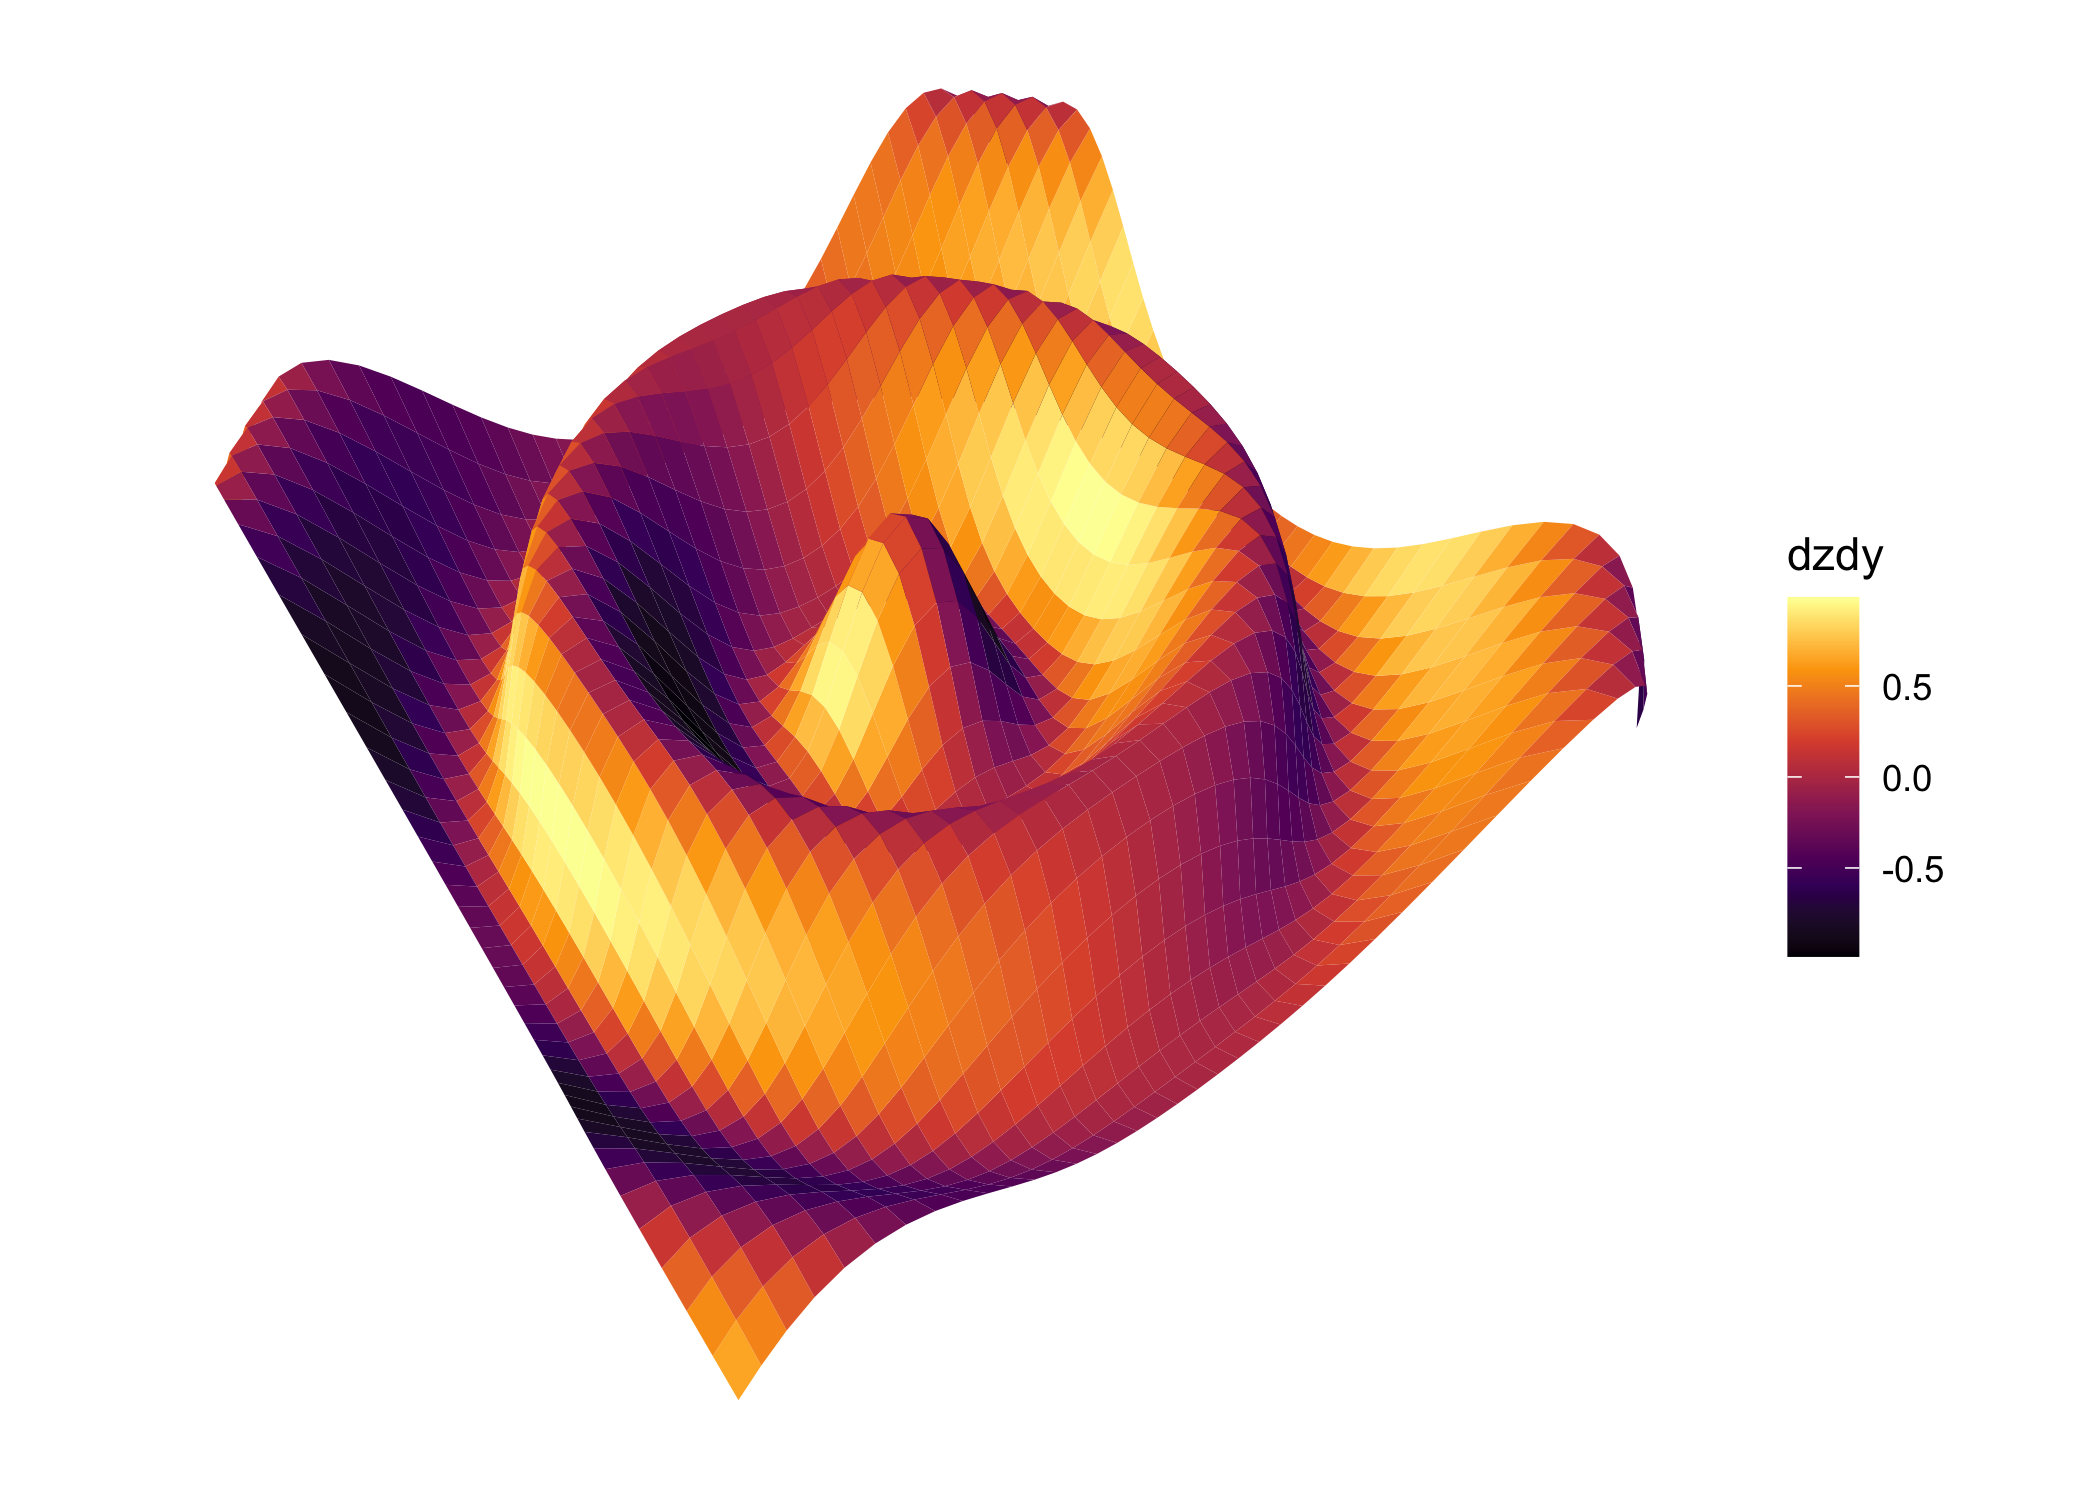
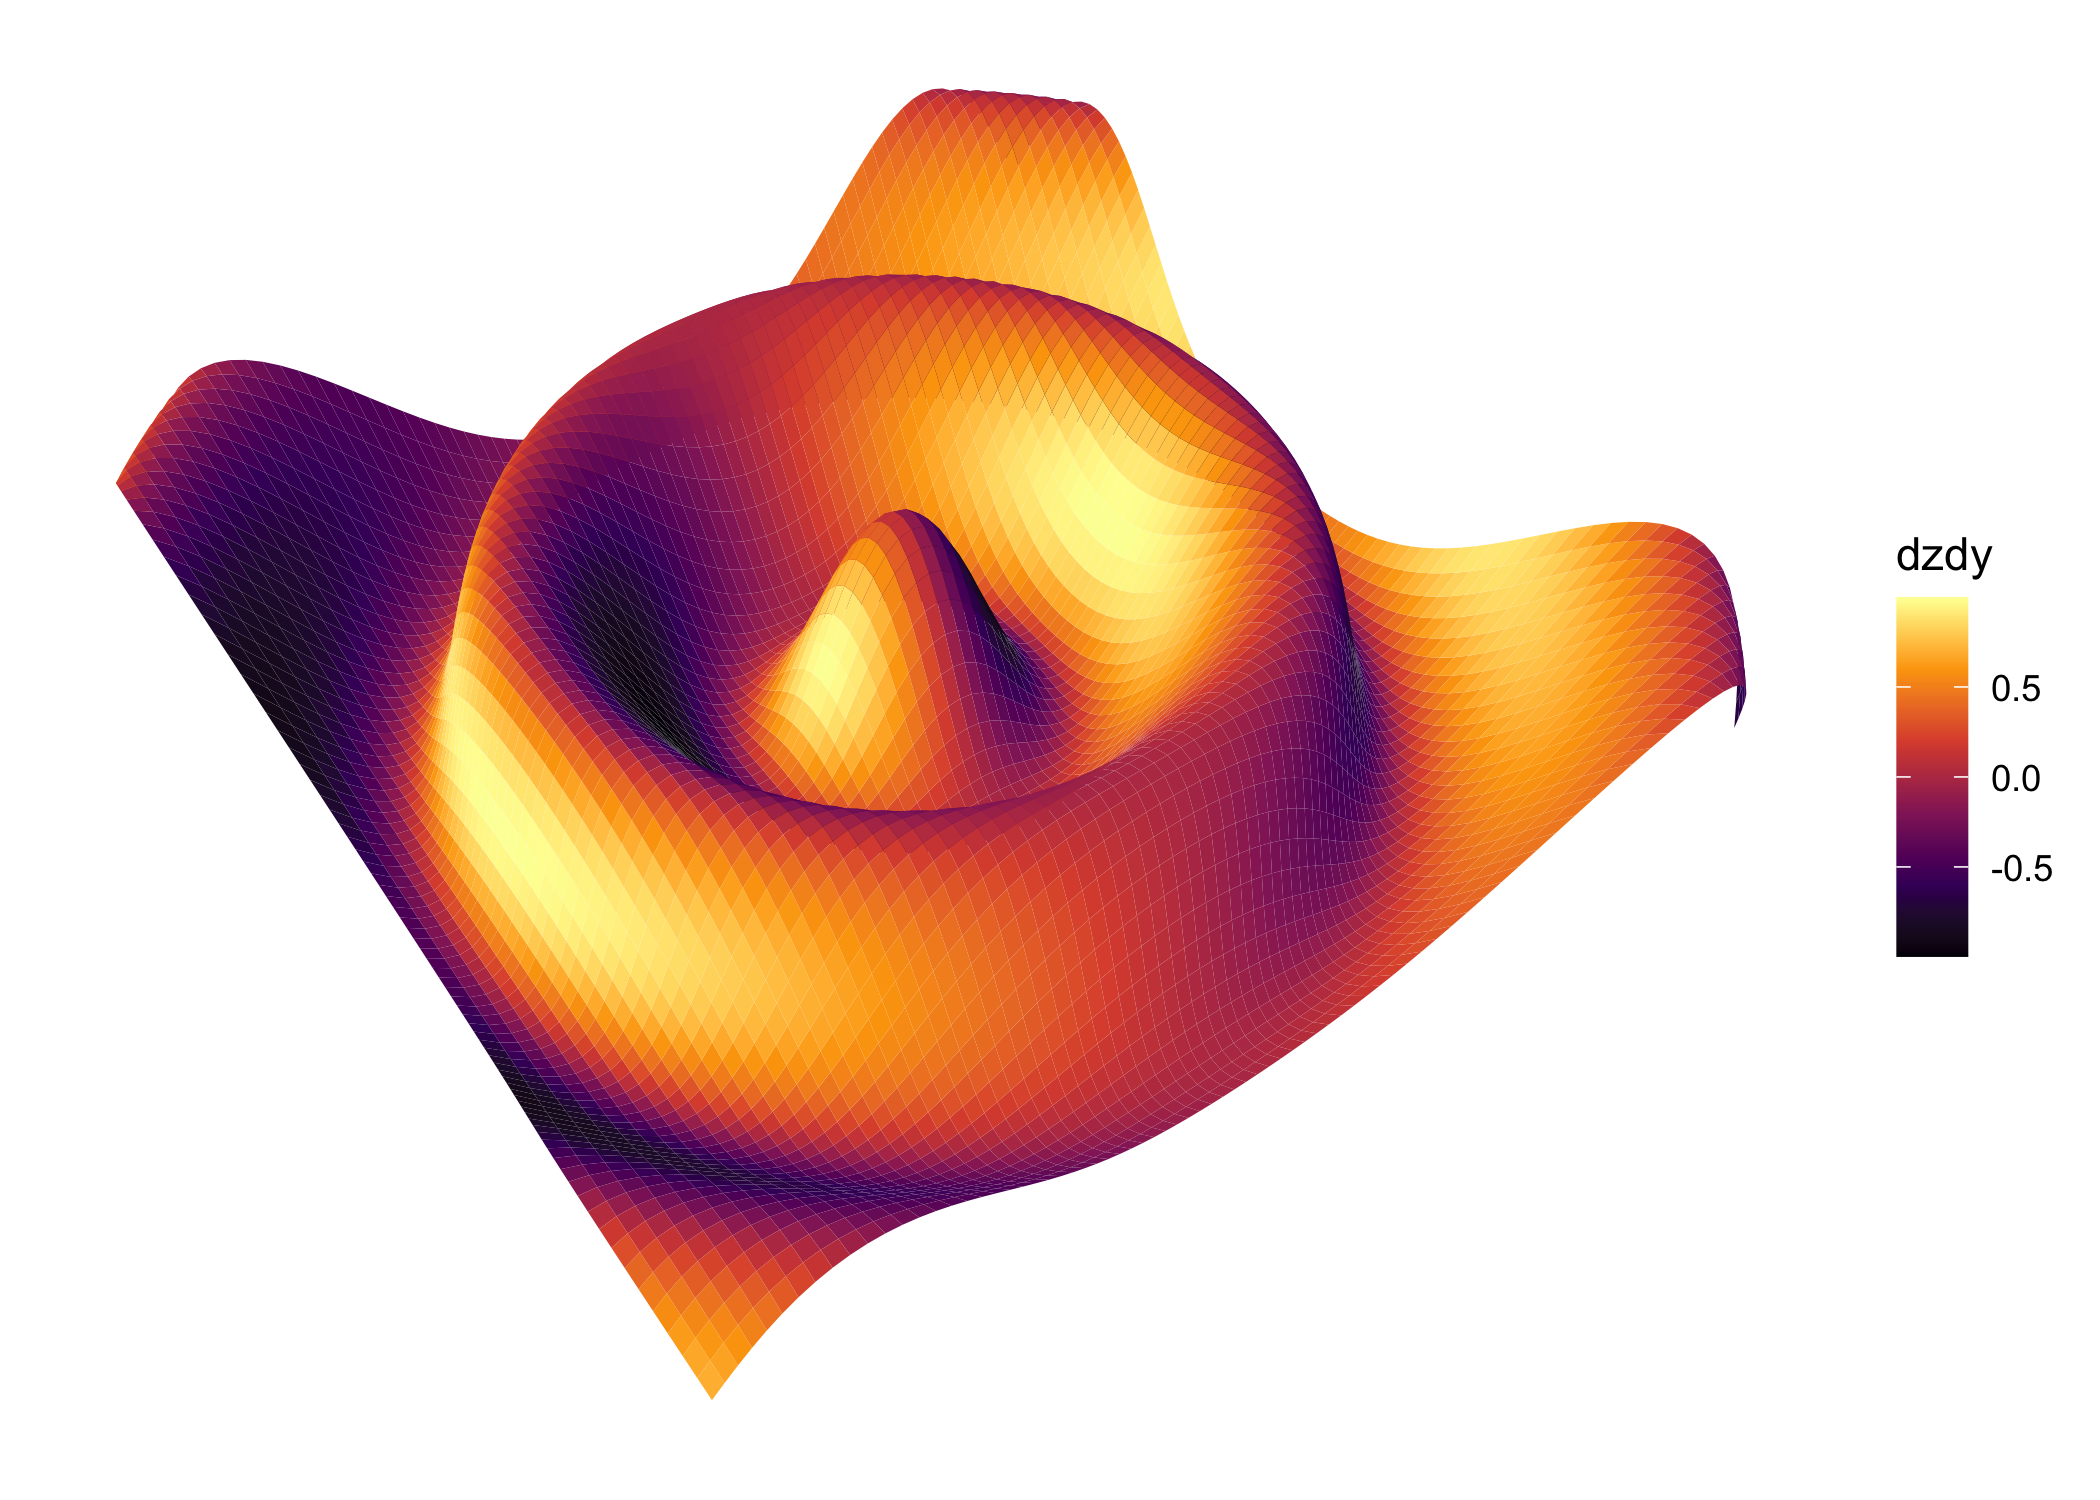
various updates

Changed region(s): [[0.031, 0.0613, 0.9595, 0.9507]]

diff --git a/README.md b/README.md
@@ -6,7 +6,7 @@
 <!-- badges: start -->
 <!-- badges: end -->
 
-The ggcube library is an extension of ggplot2 for 3D plotting.
+The `ggcube` library is an extension of ggplot2 for 3D plotting.
 
 This package is under development, and a stable version has not yet been
 released.
@@ -57,8 +57,8 @@ As another example, let’s use `proj_surface()` to plot a projection of a
 
 ``` r
 # data
-d <- expand_grid(x = seq(-10, 10, .5),
-                 y = seq(-10, 10, .5)) %>%
+d <- expand_grid(x = seq(-10, 10, .25),
+                 y = seq(-10, 10, .25)) %>%
       mutate(z = cos(sqrt(x^2 + y^2)))
 
 # projection
@@ -69,8 +69,7 @@ prj <- projection(data = d, pitch = 35, yaw = 55,
 ggplot(d, aes(x, y, z = z, fill = after_stat(dzdy))) +
       proj_surface(prj = prj) +
       scale_fill_viridis_c(option = "B") +
-      theme_cube() +
-      coord_fixed()
+      theme_cube()
 ```
 
 <img src="man/figures/README-surface-1.png" width="100%" /> We can also
@@ -105,8 +104,9 @@ d %>%
 
 <img src="man/figures/README-layers-1.png" width="100%" />
 
-Finally, let’s plot the `mountain` data set that comes with the package,
-using the `proj_ridgeline()` function to visualize a 3D landscape:
+As a final example, let’s plot the `mountain` data set that comes with
+the package, using the `proj_ridgeline()` function to visualize a 3D
+landscape:
 
 ``` r
 # projection
